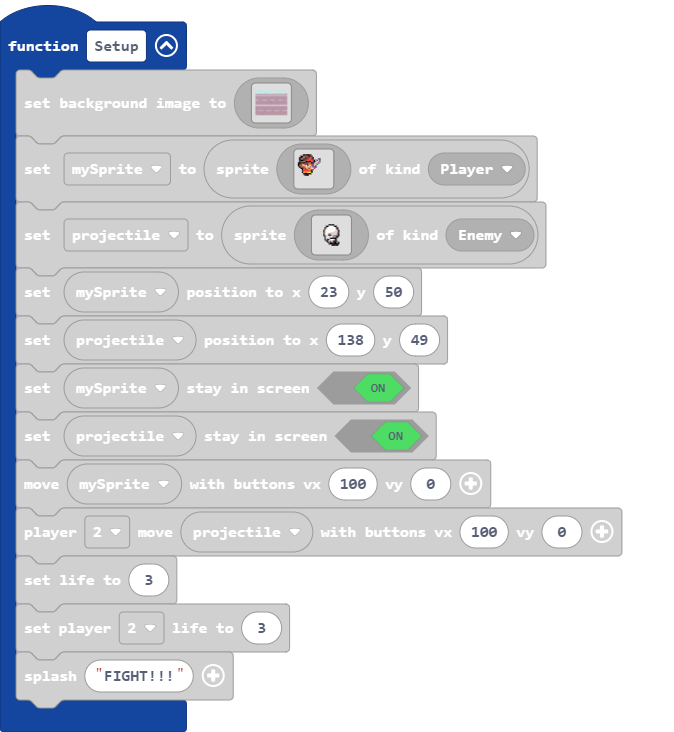
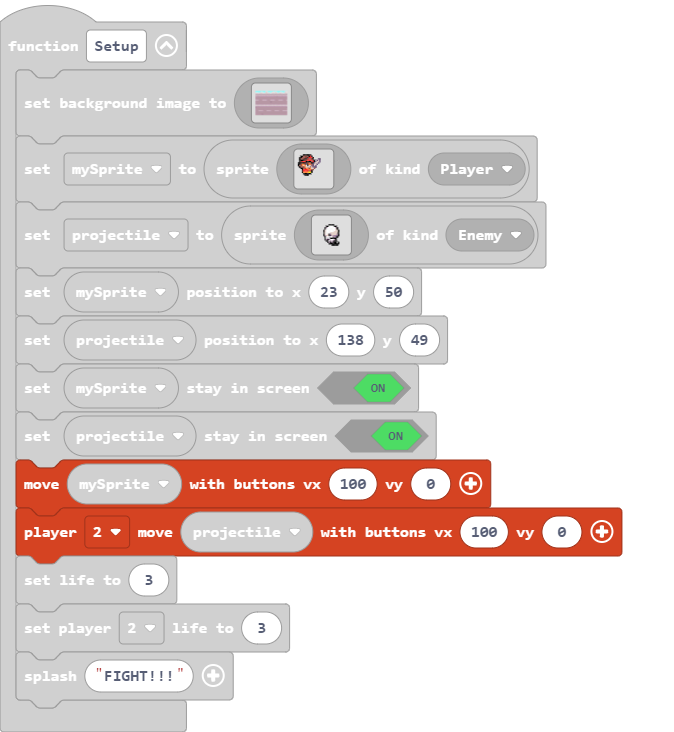
Update main.blocks, main.ts

Changed region(s): [[0.0, 0.0, 0.9347, 1.0]]

diff --git a/main.ts b/main.ts
@@ -354,8 +354,8 @@ function Setup () {
     projectile.setPosition(138, 49)
     mySprite.setStayInScreen(true)
     projectile.setStayInScreen(true)
-    controller.moveSprite(mySprite, 100, 0)
-    controller.player2.moveSprite(projectile, 100, 0)
+    controller.moveSprite(mySprite)
+    controller.player2.moveSprite(projectile)
     info.setLife(3)
     info.player2.setLife(3)
     game.splash("FIGHT!!!")
